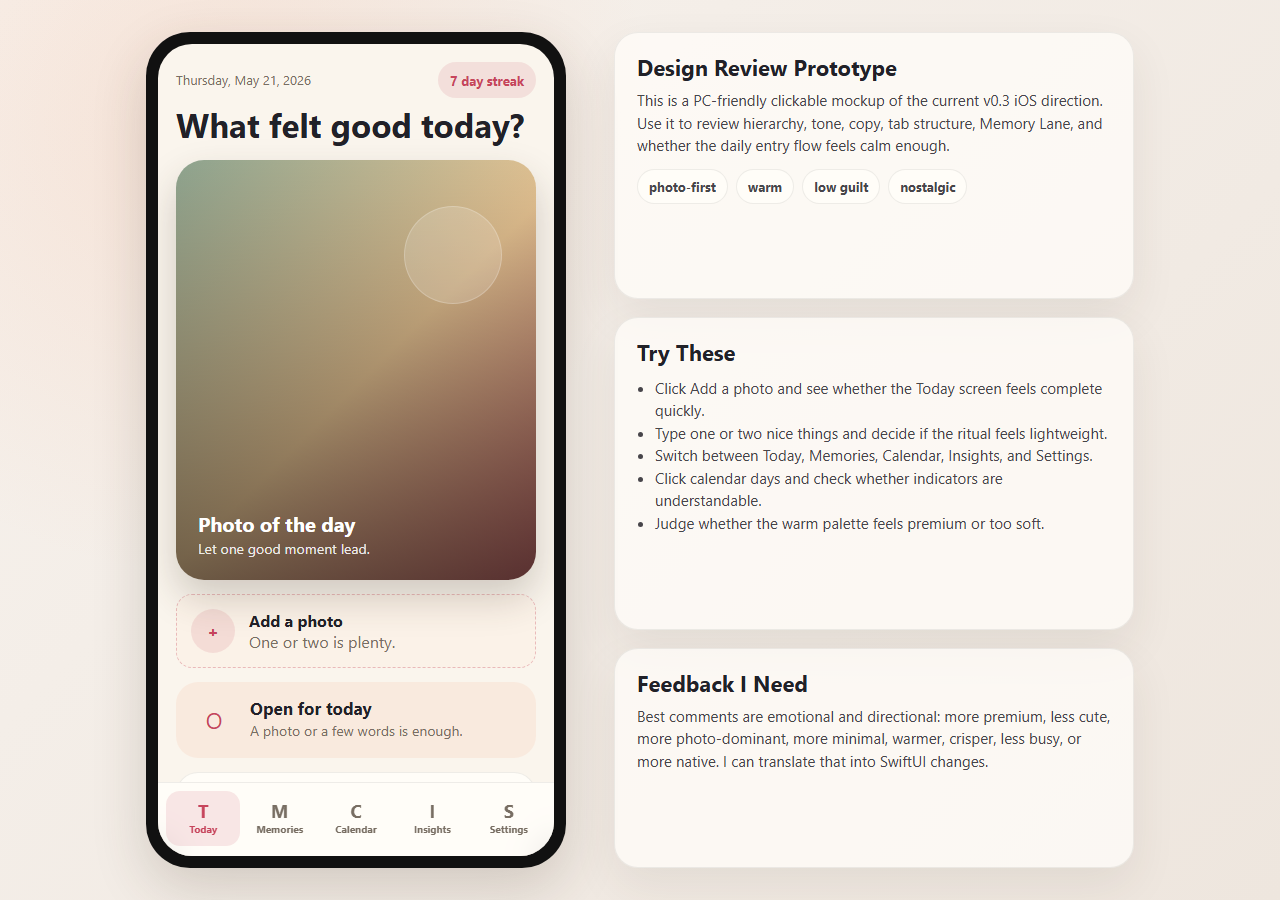
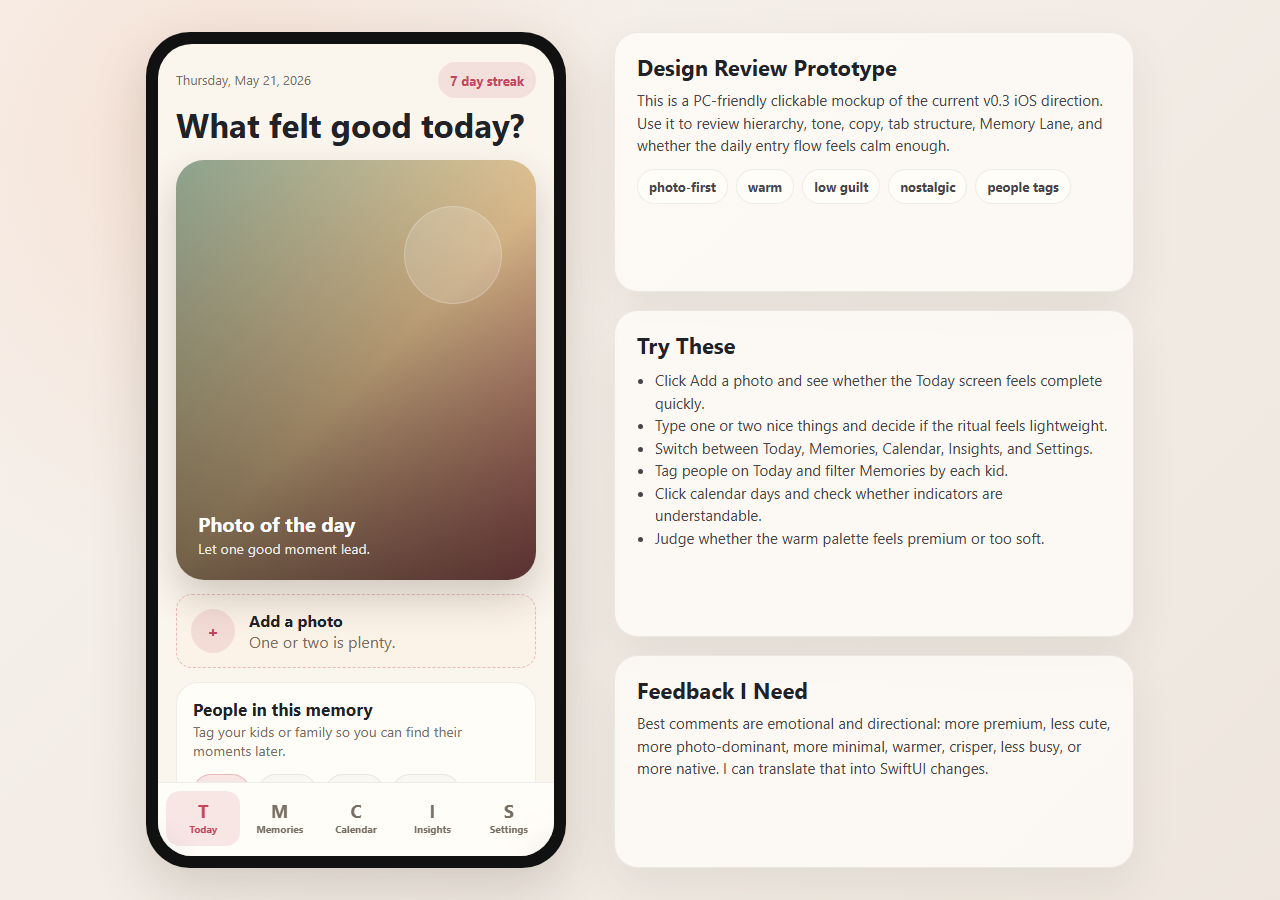
Add private people tagging direction

diff --git a/docs/prototypes/design-review/index.html b/docs/prototypes/design-review/index.html
@@ -677,6 +677,52 @@
       font-weight: 700;
     }
 
+    .person-chips {
+      display: flex;
+      flex-wrap: wrap;
+      gap: 8px;
+      margin-top: 12px;
+    }
+
+    .person-chip {
+      min-height: 36px;
+      border: 1px solid var(--line);
+      border-radius: 999px;
+      padding: 0 12px;
+      color: var(--soft-ink);
+      background: #faf8f2;
+      font-size: 13px;
+      font-weight: 800;
+    }
+
+    .person-chip.active {
+      color: var(--rose);
+      border-color: rgba(199, 69, 92, 0.28);
+      background: var(--rose-soft);
+    }
+
+    .person-chip.add {
+      border-style: dashed;
+      color: var(--warm-gray);
+      background: transparent;
+    }
+
+    .memory-people {
+      display: flex;
+      flex-wrap: wrap;
+      gap: 6px;
+      margin-top: 4px;
+    }
+
+    .person-dot {
+      border-radius: 999px;
+      padding: 4px 8px;
+      color: var(--rose);
+      background: var(--rose-soft);
+      font-size: 11px;
+      font-weight: 800;
+    }
+
     @media (max-width: 860px) {
       .review-shell {
         display: block;
@@ -730,6 +776,21 @@
                 <span class="muted">One or two is plenty.</span>
               </span>
             </button>
+
+            <div class="card">
+              <div class="section-title">
+                <h3>People in this memory</h3>
+                <p>Tag your kids or family so you can find their moments later.</p>
+              </div>
+              <div class="person-chips" id="todayPeople">
+                <button class="person-chip active" type="button" data-person="kid1">Kid 1</button>
+                <button class="person-chip" type="button" data-person="kid2">Kid 2</button>
+                <button class="person-chip" type="button" data-person="kid3">Kid 3</button>
+                <button class="person-chip" type="button" data-person="family">Family</button>
+                <button class="person-chip add" type="button">+ Add person</button>
+              </div>
+              <p class="hint">These are private memory tags, not contacts or social sharing.</p>
+            </div>
 
             <div class="card completion" id="completion">
               <span class="status-icon" id="statusIcon">O</span>
@@ -804,15 +865,22 @@
           <section class="page" id="memories">
             <p class="date">Photo-first archive</p>
             <h1>Memories</h1>
+            <div class="person-chips" aria-label="Filter memories by person">
+              <button class="person-chip active" type="button" data-filter="all">All</button>
+              <button class="person-chip" type="button" data-filter="kid1">Kid 1</button>
+              <button class="person-chip" type="button" data-filter="kid2">Kid 2</button>
+              <button class="person-chip" type="button" data-filter="kid3">Kid 3</button>
+              <button class="person-chip" type="button" data-filter="family">Family</button>
+            </div>
             <div class="photo-grid">
-              <button class="tile" type="button"><strong>Dinner with friends<br>May 20</strong></button>
-              <button class="tile" type="button"><strong>A quiet path<br>May 18</strong></button>
-              <button class="tile" type="button"><strong>Good coffee<br>May 14</strong></button>
-              <button class="tile" type="button"><strong>Golden hour<br>May 09</strong></button>
+              <button class="tile memory-item" type="button" data-people="kid1 family"><strong>Dinner with family<br>May 20</strong></button>
+              <button class="tile memory-item" type="button" data-people="kid2"><strong>A quiet path<br>May 18</strong></button>
+              <button class="tile memory-item" type="button" data-people="kid1 kid3"><strong>Good coffee<br>May 14</strong></button>
+              <button class="tile memory-item" type="button" data-people="family kid2 kid3"><strong>Golden hour<br>May 09</strong></button>
             </div>
             <div class="card" style="margin-top:14px;">
               <h3>Written memories</h3>
-              <p class="hint">The archive keeps text short so photos stay in front.</p>
+              <p class="hint" id="memoryFilterHint">Showing all memories. Person filters make it easy to revisit each child's story.</p>
             </div>
           </section>
 
@@ -860,6 +928,7 @@
             <div class="card">
               <div class="setting-row"><strong>Prompt templates</strong><span class="muted">3 active</span></div>
               <div class="setting-row"><strong>Reminder cadence</strong><span class="muted">Evening</span></div>
+              <div class="setting-row"><strong>People tags</strong><span class="muted">4 private tags</span></div>
               <div class="setting-row"><strong>iCloud sync</strong><span class="muted">Private</span></div>
               <div class="setting-row"><strong>App lock</strong><button class="switch" type="button" aria-label="App lock on"></button></div>
               <div class="setting-row"><strong>Export</strong><span class="muted">Premium</span></div>
@@ -886,6 +955,7 @@
           <span class="chip">warm</span>
           <span class="chip">low guilt</span>
           <span class="chip">nostalgic</span>
+          <span class="chip">people tags</span>
         </div>
       </div>
 
@@ -895,6 +965,7 @@
           <li>Click Add a photo and see whether the Today screen feels complete quickly.</li>
           <li>Type one or two nice things and decide if the ritual feels lightweight.</li>
           <li>Switch between Today, Memories, Calendar, Insights, and Settings.</li>
+          <li>Tag people on Today and filter Memories by each kid.</li>
           <li>Click calendar days and check whether indicators are understandable.</li>
           <li>Judge whether the warm palette feels premium or too soft.</li>
         </ul>
@@ -919,6 +990,10 @@
     const completionTitle = document.querySelector("#completionTitle");
     const completionText = document.querySelector("#completionText");
     const moods = document.querySelectorAll(".mood");
+    const todayPeople = document.querySelectorAll("#todayPeople .person-chip:not(.add)");
+    const memoryFilters = document.querySelectorAll("[data-filter]");
+    const memoryItems = document.querySelectorAll(".memory-item");
+    const memoryFilterHint = document.querySelector("#memoryFilterHint");
     let hasPhoto = false;
 
     function updateCompletion() {
@@ -958,6 +1033,26 @@
     moods.forEach((mood) => {
       mood.addEventListener("click", () => {
         moods.forEach((item) => item.classList.toggle("active", item === mood));
+      });
+    });
+
+    todayPeople.forEach((person) => {
+      person.addEventListener("click", () => {
+        person.classList.toggle("active");
+      });
+    });
+
+    memoryFilters.forEach((filter) => {
+      filter.addEventListener("click", () => {
+        const activeFilter = filter.dataset.filter;
+        memoryFilters.forEach((item) => item.classList.toggle("active", item === filter));
+        memoryItems.forEach((item) => {
+          const visible = activeFilter === "all" || item.dataset.people.split(" ").includes(activeFilter);
+          item.style.display = visible ? "flex" : "none";
+        });
+        memoryFilterHint.textContent = activeFilter === "all"
+          ? "Showing all memories. Person filters make it easy to revisit each child's story."
+          : `Showing memories tagged ${filter.textContent}.`;
       });
     });
 

diff --git a/docs/PRD.md b/docs/PRD.md
@@ -23,6 +23,7 @@ The app is inspired by the emotional utility of Five Minute Journal, but the pro
 - People who want a private journal without social posting or public sharing.
 - People who respond better to visual memory than long-form writing.
 - People who want a positive end-of-day ritual without a complex mental health app.
+- Parents or family members who want to revisit memories for each child without creating a social album.
 
 ## Core Jobs To Be Done
 
@@ -31,6 +32,7 @@ The app is inspired by the emotional utility of Five Minute Journal, but the pro
 - When I miss a day, I want the app to gently invite me back without making me feel guilty.
 - When I customize prompts, I want the journal to feel like mine.
 - When I add personal memories, I want confidence that they stay private.
+- When I tag my kids in memories, I want to quickly see each child's story over time.
 
 ## Scope
 
@@ -44,6 +46,8 @@ The app is inspired by the emotional utility of Five Minute Journal, but the pro
 - Cadence options: evening, once daily, morning/evening, anytime.
 - Calendar view.
 - Memories/Timeline view.
+- Private people tagging for entries and photos.
+- Person filters in Memories and search/browse surfaces.
 - Streak and completion summaries.
 - Automatic Memory Lane for 1 month, 1 year, 2 years, and 3 years ago.
 - Local reminders.
@@ -80,6 +84,7 @@ The app is inspired by the emotional utility of Five Minute Journal, but the pro
 - The default entry asks: "What are 3 nice things that happened today?"
 - Users can type one item, three items, or a longer free-form response.
 - Users can add one or two photos, but an entry can be completed without photos.
+- Users can optionally tag people, such as kids or family members, on the entry or individual photos.
 - Users can optionally answer secondary prompts.
 - Users can select a mood.
 - A day is complete when it has at least one non-empty response or at least one photo.
@@ -110,8 +115,19 @@ The app is inspired by the emotional utility of Five Minute Journal, but the pro
 ### Memories
 
 - The Memories tab is photo-first.
+- Users can filter memories by private people tags.
 - Text is secondary and should be revealed through entry detail or compact previews.
 - Empty states should encourage adding today's first photo.
+
+### People Tags
+
+- People tags are private labels created by the user, not contacts, accounts, or shared profiles.
+- Tags can represent children, family members, friends, pets, or other recurring memory subjects.
+- Users can add tags during daily entry creation and edit tags from entry detail.
+- A memory can have multiple people tags.
+- Photo-level tags may be supported when one entry has multiple photos with different people.
+- Memories should provide a simple person filter so users can browse "all memories with Kid 1" or similar.
+- Person tagging belongs in the free core product because it helps users retrieve their own memories.
 
 ### Insights
 
@@ -158,6 +174,7 @@ Premium should feel like a richer habit layer, not a ransom on personal memories
 - No custom backend for v1.
 - Journal data syncs only through the user's private iCloud database.
 - Photos are copied into the app container and referenced by filename.
+- People tags are user-authored private metadata and should sync only through the private iCloud database.
 - Sensitive files should use iOS file protection where available.
 - App lock uses LocalAuthentication.
 - Export should be user-initiated.
@@ -171,6 +188,7 @@ Premium should feel like a richer habit layer, not a ransom on personal memories
 - Reminder opt-in rate.
 - Memory Lane tap-through rate.
 - Prompt customization rate.
+- People tag creation and tagged-memory revisit rate.
 - Premium conversion rate after users have created meaningful history.
 
 ## Non-Goals
@@ -189,3 +207,4 @@ Premium should feel like a richer habit layer, not a ransom on personal memories
 - Exact free export limitations, if any.
 - Whether mood tracking should be prominent or quiet.
 - Whether first launch should require reminder setup or defer it.
+- Whether people tags should be entry-level first, photo-level first, or both from v1.

diff --git a/docs/DESIGN.md b/docs/DESIGN.md
@@ -18,6 +18,7 @@ The app should feel like opening a private, warm photo album at the end of the d
 - Lightly premium.
 - Emotionally optimistic.
 - Low guilt.
+- Family-memory friendly.
 
 ## Visual Direction
 
@@ -50,12 +51,15 @@ The existing Timeline tab should become Memories during the design pass.
 - "Three nice things" is a friendly list-style input.
 - Secondary prompts are lower priority and can be compact.
 - Mood picker should not compete with the photo or main prompt.
+- People tagging should sit near the photo area as optional chips, not as a required form.
 - Completion should feel saved and reassuring, not like a chore checklist.
 - Memory Lane appears as a signature moment after the daily entry area.
 
 ### Memories
 
 - Photo grid or feed leads the experience.
+- Person filters should make it easy to browse memories by each child.
+- People chips should feel like private labels, not social tags.
 - Text excerpts are short.
 - Tapping opens the full entry.
 - Empty state should encourage today's first photo.
@@ -90,6 +94,8 @@ Build or refine these reusable components:
 - `MemoryCard`
 - `StreakPill`
 - `MoodSelector`
+- `PeopleTagPicker`
+- `PersonFilterChips`
 - `CompletionBanner`
 - `CalendarMonthGrid`
 - `EntryPreviewCard`
@@ -101,6 +107,8 @@ Build or refine these reusable components:
 - Saving should be automatic.
 - Photo import should show progress and failure states.
 - Prompt editing should preserve historical prompt text.
+- People tags should be editable after the entry is saved.
+- Person filters should preserve the photo-first archive layout.
 - Memory cards should use exact labels when exact and softer labels when near dates, such as "Around this day in 2025."
 - Reminder setup should be optional and reversible.
 
@@ -109,6 +117,7 @@ Build or refine these reusable components:
 - Support Dynamic Type.
 - Maintain high text contrast.
 - Add useful VoiceOver labels for photos, mood buttons, completion state, and calendar days.
+- Add useful VoiceOver labels for selected people tags and person filters.
 - Hit targets should be at least 44 by 44 points.
 - Do not communicate state through color only.
 

diff --git a/docs/ARCHITECTURE.md b/docs/ARCHITECTURE.md
@@ -19,6 +19,10 @@ Photo Gratitude Journal is a local-first SwiftUI app with Apple-native storage, 
   - `PromptResponse`
   - `PhotoAttachment`
   - `ReminderConfig`
+- Planned people-tagging models:
+  - `PersonTag`
+  - `JournalEntryPersonTag`
+  - Optional `PhotoAttachmentPersonTag` if photo-level tagging is needed.
 - CloudKit sync is intended to use the user's private iCloud database only. There is no custom backend and no shared public journal data.
 
 ## Photos
@@ -27,6 +31,14 @@ Photo Gratitude Journal is a local-first SwiftUI app with Apple-native storage, 
 - `PhotoStore` copies images into the app's Application Support directory and generates thumbnails.
 - Photo files use protected file attributes where supported.
 - SwiftData stores references to app-local filenames, not raw image blobs.
+
+## People Tags
+
+- People tags are private user-created labels for children, family members, friends, or other recurring memory subjects.
+- Tags should be stored as SwiftData entities and synced only through the user's private iCloud database.
+- Entry-level tagging should ship first because it keeps the daily ritual light.
+- Photo-level tagging can follow if users need to distinguish people across multiple photos in a single entry.
+- Memories filtering should query by tag without exposing tags outside the app.
 
 ## Core Logic
 

diff --git a/README.md b/README.md
@@ -2,7 +2,7 @@
 
 Photo Gratitude Journal is a polished, local-first iOS app for ending the day with one or two photos and a few positive reflections. The default ritual asks for three nice things that happened today, but users can customize prompts and choose an evening-only, once-daily, morning/evening, or anytime cadence.
 
-The product goal is simple: make a private, beautiful photo journal that helps people notice good moments and rediscover them later through streaks, a calendar, and automatic nostalgia views.
+The product goal is simple: make a private, beautiful photo journal that helps people notice good moments and rediscover them later through streaks, a calendar, private people tags, and automatic nostalgia views.
 
 ## Current Status
 
@@ -56,6 +56,7 @@ xcrun simctl list devices available
 - Flexible cadence: once daily, morning/evening, or anytime entries.
 - Photo-first Today and Timeline experiences.
 - Streaks, calendar browsing, mood tracking, and automatic Memory Lane look-backs.
+- Private people tagging so family memories can be browsed by child or loved one.
 - Generous free tier with yearly Premium unlocks for widgets, advanced insights, export, app lock, themes, and richer nostalgia.
 
 ## Project Structure

diff --git a/docs/ROADMAP.md b/docs/ROADMAP.md
@@ -110,6 +110,9 @@ Goal: make browsing past entries visually rewarding.
 Work:
 
 - Redesign Memories as a photo-first feed or grid.
+- Add private people tags for children, family, and recurring memory subjects.
+- Add person filters to Memories.
+- Add entry-detail editing for people tags.
 - Improve Entry Detail as a memory page.
 - Improve Calendar visual density and month navigation.
 - Add "around this time" labels for near-date Memory Lane matches.
@@ -119,6 +122,9 @@ Work:
 Acceptance criteria:
 
 - Memories tab feels photo-led.
+- User can tag a memory with one or more people.
+- User can filter Memories by a selected person.
+- People tags remain private local/iCloud metadata, not social contacts.
 - Calendar clearly distinguishes photo, complete, and empty days.
 - Entry Detail renders photo-heavy and text-only entries well.
 - Memory Lane cards open the correct entry.

diff --git a/docs/prototypes/design-review/README.md b/docs/prototypes/design-review/README.md
@@ -6,6 +6,7 @@ Open `index.html` in a browser and review:
 
 - Today screen hierarchy.
 - Photo-first daily entry flow.
+- Private people tagging and Memories filters.
 - Three nice things input.
 - Memory Lane tone.
 - Memories, Calendar, Insights, and Settings tab structure.
